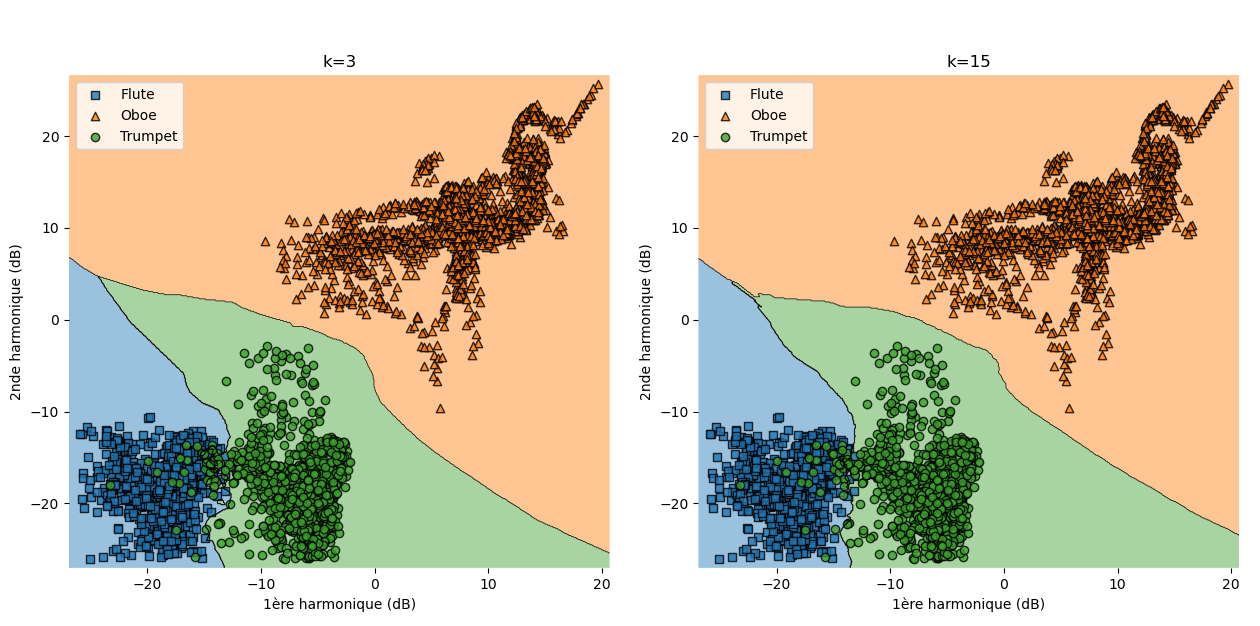
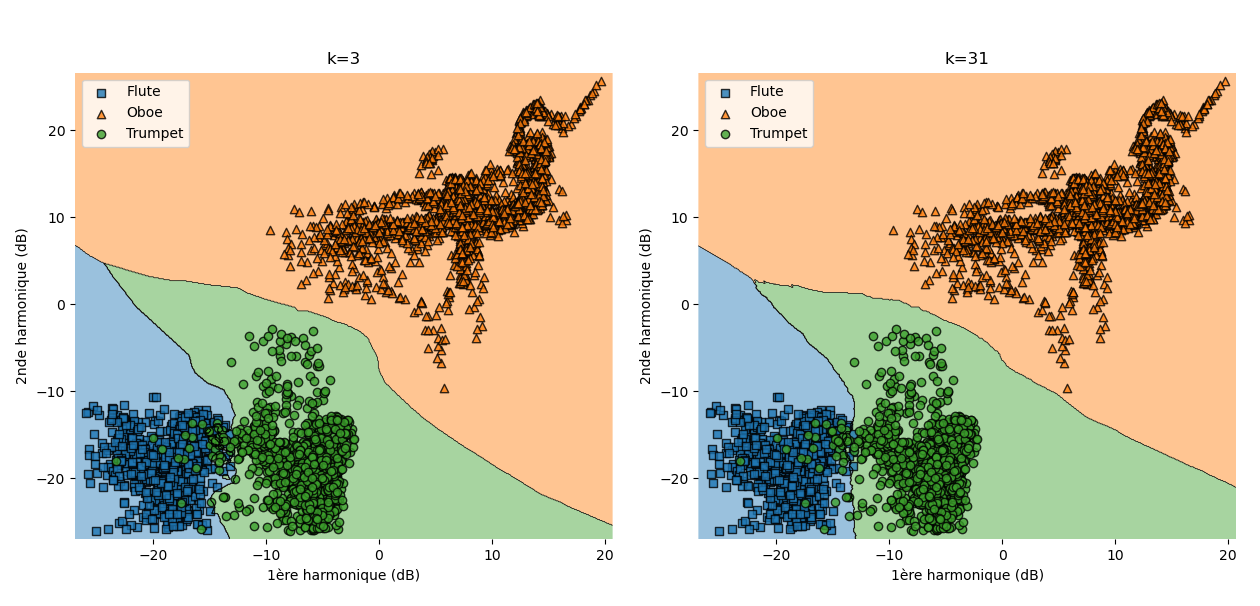
-Progress on Chapter 2.

diff --git a/docs/Chap2_Classification_supervisee.md b/docs/Chap2_Classification_supervisee.md
@@ -760,12 +760,37 @@ print(knn.score(df_features_train,df_labels_train))
 print(knn.score(df_features_test,df_labels_test))
 ~~~
 
-On obtient environ 99.4% de précision en entrainement, et environ 98.8% de précision en test.
-Ces scores laissent à penser que notre modèle aura de plutôt bonnes performances en généralisation, mais il nous faut une matrice de confusion complète pour conclure.
+Pour $k=3$, on obtient environ 99.4% de précision en entrainement, et environ 98.8% de précision en test.
+Ces scores laissent à penser que notre modèle aura de plutôt bonnes performances en généralisation, mais il nous faut une matrice de confusion complète pour conclure :
 
+![Exemple de matrice de confusion](img/Chap2_exemple_matrice_confusion_2.png)
 
+On observe qu'à l'entrainement comme en test, le hautbois est très bien séparé des autres instruments, alors que la trompette et la flute sont parfois confondus.
+Ce résultat était prévisible au vu de la matrice de corrélations que nous avions obtenue lors de notre étude préliminaire.
+Les proportions d'erreurs restent cependant relativement faibles comparées aux nombres d'observations.
+
+Nous n'avons pour l'instant testé qu'une valeur de $k$.
+Pour visualiser l'effet de cet hyperparamètre, nous pouvons utiliser les affichages graphiques de la bibliothèque MLxtend.
+
+Voici les graphiques obtenus pour $k=3$ (volontairement faible) et $k=31$ (volontairement élevé) :
 
 ![Frontières de décision pour notre exemple](img/Chap2_exemple_KPPV_frontieres_decision.png)
+
+On peut noter que comme attendu, le choix de $k$ a le plus d'effet à la frontière entre "flute" et "trompette".
+En effet, comme il y a du recouvrement entre ces 2 classes, on sait qu'il vaut mieux choisir un $k$ élevé pour éviter le sur-apprentissage.
+Ceci est confirmé par le "lissage" de la frontière de décision lorsque l'on utilise $k=31$.
+
+Le choix d'un $k$ élevé a donc l'air plus approprié ici, mais il faudrait réaliser une réelle optimisation de cet hyperparamètre.
+
+Par défaut, la distance utilisée par l'implémentation Scikit-Learn des KPPV est la distance Euclidienne.
+Nous pouvons également réaliser des affichages pour visualiser l'impact de différentes distances pour une même valeur de $k$.
+
+Voici le résultat pour la distance Euclidienne et la distance de Manhattan, avec $k=31$.
+
+![Frontières de décision pour notre exemple](img/Chap2_exemple_KPPV_frontieres_decision_2.png)
+
+On observe en effet que le choix de la distance impacte significativement les frontières de décision obtenues, même s'il est difficile ici de juger de la pertinence d'une des 2 distances essayées.
+Tout comme pour $k$, il faudrait réaliser une véritable optimisation de cet hyperparamètre.
 
 #### Remarques
 
